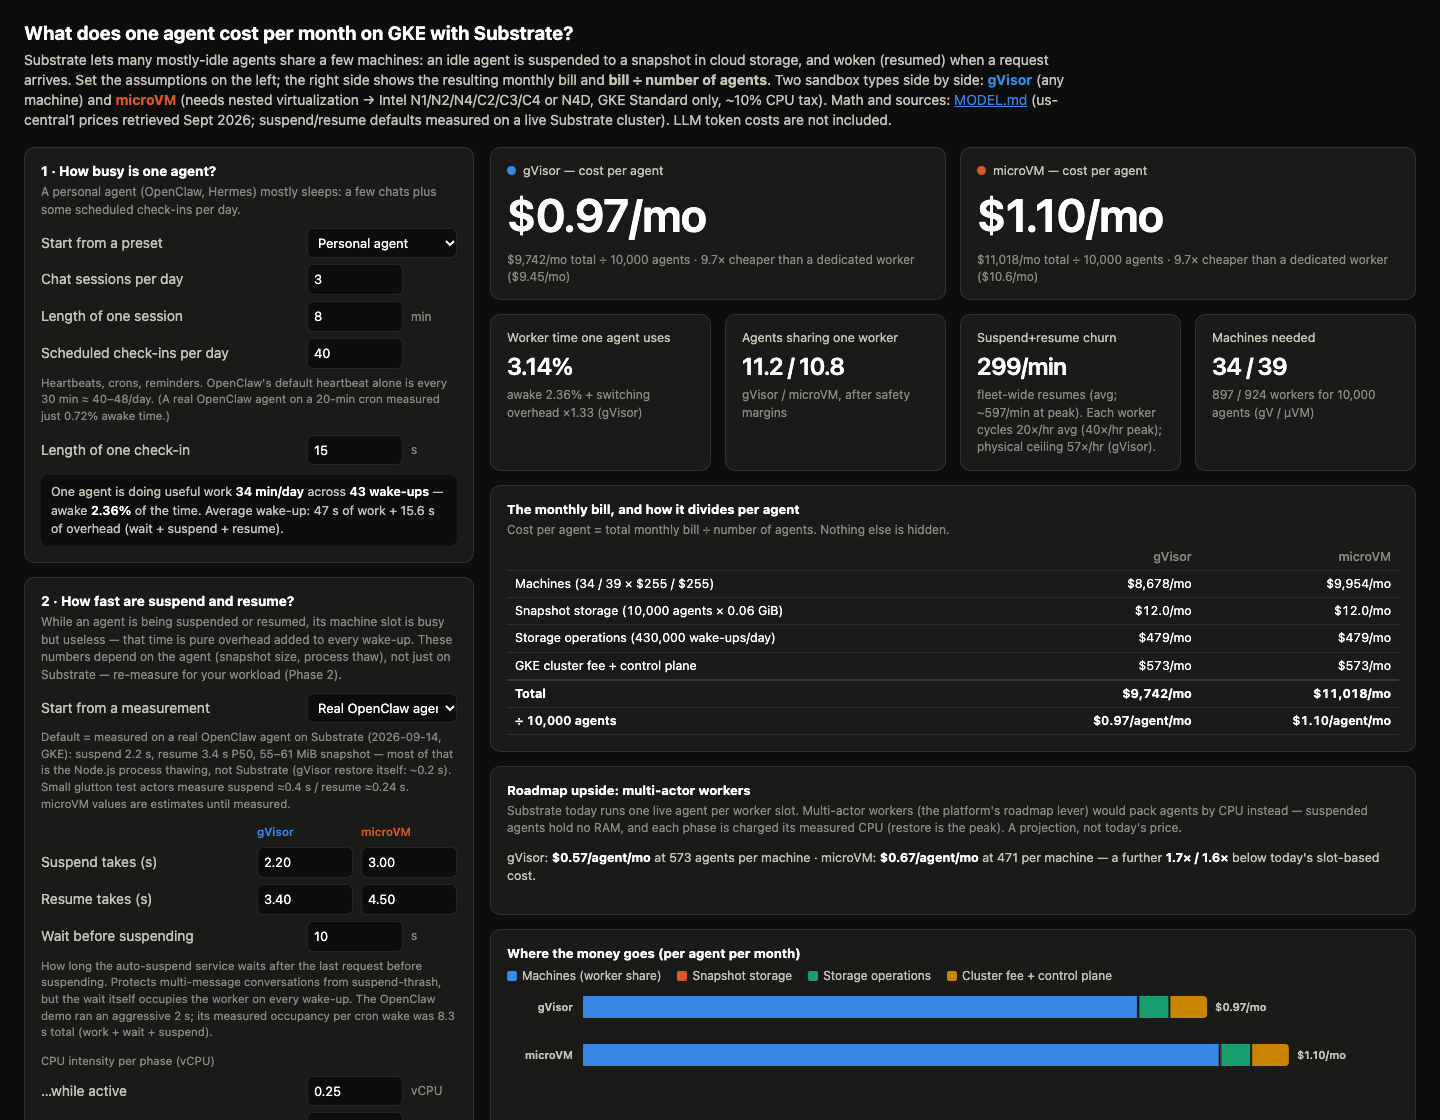
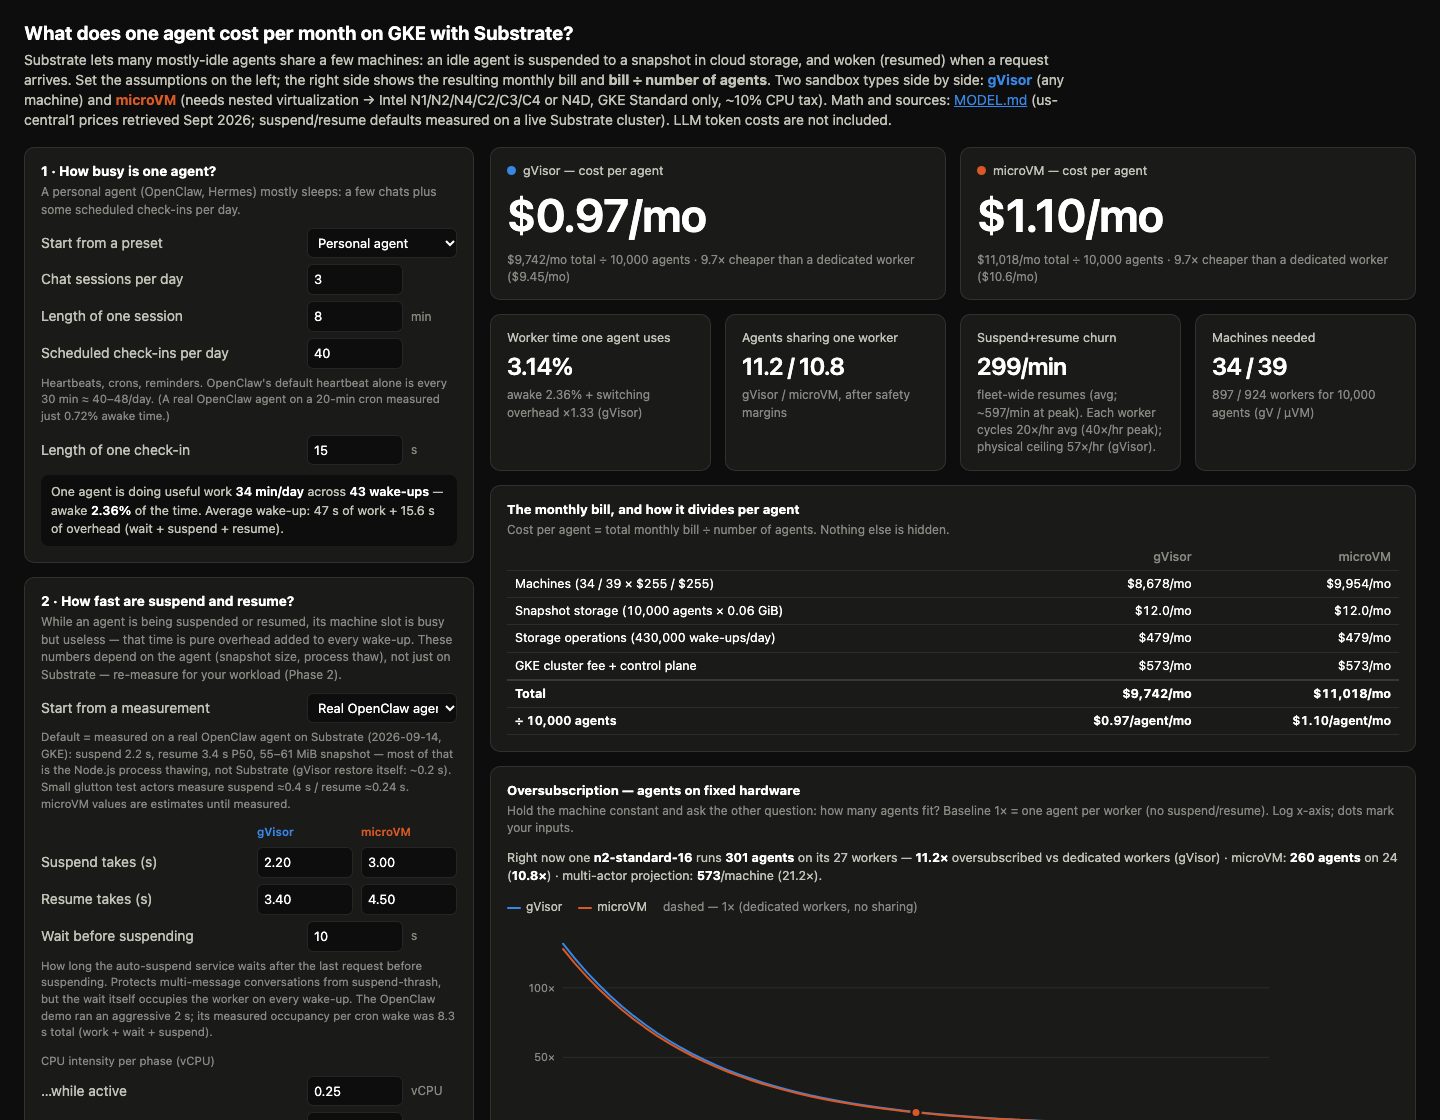
Oversubscription view: fixed hardware, how many agents fit
New calculator card: headline (agents on one machine, ratio vs dedicated
workers, multi-actor projection ratio), an oversubscription-ratio vs
duty-cycle chart (log x, 1x dedicated reference, end labels suppressed
where the curves converge — legend + crosshair carry identity), and a
levers chart that re-runs the model with one knob at a time moved to its
friendlier setting on the same machine: cut idle wait (+15%), small-actor
switch times (+9%), autoscale the pool (+100%), hotter utilization (+21%),
multi-actor workers (+90%, dashed projection). lineChart gains yFmt/
labelSuffix/endLabels options; detail table gains agents-per-machine;
README bullet + calculator screenshot refreshed.

Changed region(s): [[0.3438, 0.8438, 0.9375, 1.0], [0.3438, 0.6875, 0.9688, 0.8125]]

diff --git a/calculator.html b/calculator.html
@@ -246,6 +246,17 @@
     <div style="overflow-x:auto"><table class="detail" id="billTable"></table></div>
   </div>
 
+  <div class="card chart-card">
+    <h3>Oversubscription — agents on fixed hardware</h3>
+    <p class="sub">Hold the machine constant and ask the other question: how many agents fit? Baseline 1× = one agent per worker (no suspend/resume). Log x-axis; dots mark your inputs.</p>
+    <p class="anchors" id="osLine"></p>
+    <div class="legend"><span><span class="key" style="border-color:var(--s1)"></span>gVisor</span><span><span class="key" style="border-color:var(--s2)"></span>microVM</span><span style="color:var(--muted)">dashed — 1× (dedicated workers, no sharing)</span></div>
+    <svg id="os_chart" width="100%" height="240" role="img" aria-label="Oversubscription ratio versus duty cycle"></svg>
+    <h3 style="margin-top:14px">Which knobs buy more agents (same machine)</h3>
+    <p class="sub">Each bar re-runs the model with one knob moved to its friendlier setting, everything else as configured. gVisor scenario, agents per <span id="osMachine"></span>.</p>
+    <svg id="lever_chart" width="100%" height="200" role="img" aria-label="Agents per machine by lever"></svg>
+  </div>
+
   <div class="card">
     <h3 style="font-size:13px;margin:0 0 2px">Roadmap upside: multi-actor workers</h3>
     <p class="subtitle">Substrate today runs one live agent per worker slot. Multi-actor workers (the platform's roadmap lever) would pack agents by CPU instead — suspended agents hold no RAM, and each phase is charged its measured CPU (restore is the peak). A projection, not today's price.</p>
@@ -514,6 +525,8 @@ function niceTicks(max, n=5) {
 
 /* ---------- line chart ---------- */
 function lineChart(svg, opts) {
+  const yFmt = opts.yFmt || fmt$;
+  const suffix = opts.labelSuffix !== undefined ? opts.labelSuffix : "/mo";
   svg.innerHTML = "";
   const W = svg.clientWidth || 900, H = +svg.getAttribute("height");
   svg.setAttribute("viewBox", `0 0 ${W} ${H}`);
@@ -530,7 +543,7 @@ function lineChart(svg, opts) {
   for (const tval of niceTicks(ymax)) {
     el("line", {x1:m.l, x2:W-m.r, y1:Y(tval), y2:Y(tval), stroke:css("--grid"), "stroke-width":1}, svg);
     const t = el("text", {x:m.l-8, y:Y(tval)+4, "text-anchor":"end"}, svg);
-    t.textContent = fmt$(tval);
+    t.textContent = yFmt(tval);
   }
   const xticks = opts.xLog ? opts.xTicks : niceTicks(xmax);
   for (const tv of xticks) {
@@ -548,9 +561,11 @@ function lineChart(svg, opts) {
     const pts = opts.xs.map((x,i)=>[X(x), Y(s.ys[i])]);
     el("path", {d:"M"+pts.map(p=>p.map(v=>v.toFixed(1)).join(",")).join("L"),
       fill:"none", stroke:s.color, "stroke-width":2, "stroke-linejoin":"round", "stroke-linecap":"round"}, svg);
-    const last = pts[pts.length-1];
-    const t = el("text", {x:last[0]+8, y:last[1]+4, class:"dlabel"}, svg);
-    t.textContent = s.name + " " + fmt$(s.ys[s.ys.length-1]) + "/mo";
+    if (opts.endLabels !== false) {
+      const last = pts[pts.length-1];
+      const t = el("text", {x:last[0]+8, y:last[1]+4, class:"dlabel"}, svg);
+      t.textContent = s.name + " " + yFmt(s.ys[s.ys.length-1]) + suffix;
+    }
   });
   if (opts.curX != null) {
     opts.series.forEach(s => {
@@ -571,7 +586,7 @@ function lineChart(svg, opts) {
     cross.setAttribute("x1", X(opts.xs[i])); cross.setAttribute("x2", X(opts.xs[i]));
     cross.setAttribute("opacity", 1);
     showTT(ttBox(opts.xFmt(opts.xs[i]) + opts.ttSuffix,
-      opts.series.map(s=>({color:s.color, name:s.name, val:fmt$(s.ys[i])+"/mo"}))),
+      opts.series.map(s=>({color:s.color, name:s.name, val:yFmt(s.ys[i])+suffix}))),
       ev.clientX, ev.clientY);
   });
   hit.addEventListener("pointerleave", () => { cross.setAttribute("opacity",0); hideTT(); });
@@ -641,15 +656,17 @@ function breakdownChart(svg, rows) {
 function sweepDuty(pG, pM) {
   const w0 = workload();
   const xs = [], g = [], mv = [];
+  const gN = [], mN = [];
   for (let e = Math.log10(0.002); e <= Math.log10(0.30)+1e-9; e += (Math.log10(0.30)-Math.log10(0.002))/60) {
     const target = Math.pow(10, e);
     const k = target/w0.duty;
     const w = {liveSec:w0.liveSec*k, acts:w0.acts*k, duty:target};
     xs.push(target*100);
-    g.push(scenario(pG, w).perAgent);
-    mv.push(scenario(pM, w).perAgent);
+    const sg = scenario(pG, w), sm = scenario(pM, w);
+    g.push(sg.perAgent); mv.push(sm.perAgent);
+    gN.push(sg.N);       mN.push(sm.N);
   }
-  return {xs, g, m:mv, cur:w0.duty*100};
+  return {xs, g, m:mv, gN, mN, cur:w0.duty*100};
 }
 function sweepSR(pG, pM) {
   const w = workload();
@@ -661,6 +678,68 @@ function sweepSR(pG, pM) {
     mv.push(scenario({...pM, ts:t*ratio(pM), tr:t*(1-ratio(pM))}, w).perAgent);
   }
   return {xs, g, m:mv};
+}
+
+/* ---------- levers: same machine, one knob improved ---------- */
+
+// withInputs temporarily sets input values, runs fn, restores. Lets the
+// lever bars reuse scenario() (which reads the DOM) without refactoring.
+function withInputs(changes, fn) {
+  const saved = {};
+  for (const id in changes) { saved[id] = $(id).value; $(id).value = changes[id]; }
+  try { return fn(); } finally {
+    for (const id in saved) $(id).value = saved[id];
+  }
+}
+
+// leverRows computes agents-per-machine for today's settings and for each
+// single-knob improvement (gVisor scenario).
+function leverRows(pG, w, G) {
+  const perMachine = s => s.N * s.wpn;
+  const rows = [{label: "Today, as configured", val: perMachine(G), proj: false}];
+  const add = (label, changes) => {
+    const v = withInputs(changes, () => perMachine(scenario(params("g"), w)));
+    if (Math.abs(v - rows[0].val) > 0.5) rows.push({label, val: v, proj: false});
+  };
+  if (num("tidle") > 2) add("Cut idle wait to 2s", {tidle: 2});
+  if (num("g_ts") > 0.5) add("Small-actor switch times (0.4s/0.25s)", {g_ts: 0.4, g_tr: 0.25});
+  if ($("peakModel").value === "mult" && num("peak") > 1) {
+    add("Autoscale the pool with the day (peak ×1)", {peak: 1});
+  } else if ($("peakModel").value === "herd" && num("herd") > 5) {
+    add("De-align the crons (herd 25% → 5%)", {herd: 5});
+  }
+  if (num("util") < 0.85) add("Run workers hotter (utilization 0.85)", {util: 0.85});
+  rows.push({label: "Multi-actor workers (roadmap projection)", val: G.maPerNode, proj: true});
+  return rows;
+}
+
+function leverChart(svg, rows) {
+  svg.innerHTML = "";
+  const W = svg.clientWidth || 900;
+  const barH = 18, gap = 10, mL = 320, mR = 150;
+  const H = rows.length * (barH + gap) + 8;
+  svg.setAttribute("height", H);
+  svg.setAttribute("viewBox", `0 0 ${W} ${H}`);
+  const maxV = Math.max(...rows.map(r => r.val)) * 1.02;
+  const iw = W - mL - mR;
+  rows.forEach((r, i) => {
+    const y = 4 + i * (barH + gap);
+    const lab = el("text", {x: mL - 10, y: y + barH/2 + 4, "text-anchor": "end",
+      class: i === 0 ? "dlabel" : ""}, svg);
+    lab.textContent = r.label;
+    const wpx = Math.max(2, r.val / maxV * iw);
+    const rr = Math.min(4, wpx);
+    const bar = el("path", {d: `M${mL},${y} h${wpx - rr} a${rr},${rr} 0 0 1 ${rr},${rr} v${barH - 2*rr} a${rr},${rr} 0 0 1 ${-rr},${rr} h${-(wpx - rr)} z`,
+      fill: css("--s1"), opacity: r.proj ? 0.45 : (i === 0 ? 1 : 0.8)}, svg);
+    if (r.proj) bar.setAttribute("stroke-dasharray", "4 3");
+    const v = el("text", {x: mL + wpx + 8, y: y + barH/2 + 4, class: "dlabel"}, svg);
+    v.textContent = fmt(r.val, 0) + " agents" +
+      (i > 0 ? sPlus(r.val, rows[0].val) : "");
+  });
+}
+function sPlus(v, base) {
+  const d = v / Math.max(base, 1e-9);
+  return d >= 1 ? `  (+${fmt((d-1)*100,0)}%)` : `  (${fmt((d-1)*100,0)}%)`;
 }
 
 /* ---------- tables ---------- */
@@ -773,6 +852,24 @@ function recompute() {
   ]);
 
   const sd = sweepDuty(pG, pM);
+
+  // Oversubscription view: fixed hardware, how many agents fit.
+  $("osMachine").textContent = $("g_shape").value.split(" ")[0];
+  $("osLine").innerHTML =
+    `Right now one <b>${pG.shape}</b> runs <b>${fmt(G.N*G.wpn,0)} agents</b> on its ${G.wpn} workers —
+     <b>${fmt(G.N,1)}×</b> oversubscribed vs dedicated workers (gVisor) ·
+     microVM: <b>${fmt(M.N*M.wpn,0)} agents</b> on ${M.wpn} (<b>${fmt(M.N,1)}×</b>) ·
+     multi-actor projection: <b>${fmt(G.maPerNode,0)}</b>/machine (${fmt(G.maPerNode/Math.max(G.wpn,1),1)}×).`;
+  lineChart($("os_chart"), {
+    xs:sd.xs, xLog:true, xTicks:[0.3,1,3,10,30], curX:sd.cur,
+    xFmt:v=>fmt(v,1)+"%", ttSuffix:" of the day awake",
+    yFmt:v=>fmt(v,0)+"×", labelSuffix:"", endLabels:false,
+    series:[{name:"gVisor", color:css("--s1"), ys:sd.gN},
+            {name:"microVM", color:css("--s2"), ys:sd.mN}],
+    dashedY:[{y:1, color:css("--baseline"), label:"1× dedicated"}],
+  });
+  leverChart($("lever_chart"), leverRows(pG, w, G));
+
   lineChart($("duty_chart"), {
     xs:sd.xs, xLog:true, xTicks:[0.3,1,3,10,30], curX:sd.cur,
     xFmt:v=>fmt(v,1)+"%", ttSuffix:" of the day awake",
@@ -806,6 +903,7 @@ function recompute() {
     {cells:["Agents per worker — time-sharing limit", fmt(G.nTime,2), fmt(M.nTime,2)]},
     {cells:["Agents per worker — churn-cap limit", Number.isFinite(G.nChurn)?fmt(G.nChurn,2):"no cap", Number.isFinite(M.nChurn)?fmt(M.nChurn,2):"no cap"]},
     {cls: (G.capBinds||M.capBinds)?"em":"", cells:["Agents per worker (min of the two)", fmt(G.N,2), fmt(M.N,2)]},
+    {cells:["Agents per machine (slot-based)", fmt(G.N*G.wpn,0), fmt(M.N*M.wpn,0)]},
     {cells:["Workers needed", fmt(G.workers,0), fmt(M.workers,0)]},
     {cells:["Machines needed", fmt(G.nodes,0), fmt(M.nodes,0)]},
     {cells:["Multi-actor agents/machine (projection)", fmt(G.maPerNode,0)+(G.maMemBound?" (mem-bound)":""), fmt(M.maPerNode,0)+(M.maMemBound?" (mem-bound)":"")]},

diff --git a/README.md b/README.md
@@ -36,6 +36,10 @@ What the calculator shows:
   (machines + snapshots + storage ops + cluster fee), and cost per agent =
   bill ÷ agents. Suspend/resume churn rates against each worker's physical
   ceiling, with an optional churn cap.
+- **An oversubscription view**: hold the machine constant and see how many
+  agents fit — the ratio vs duty cycle, plus a levers chart showing how many
+  MORE agents each knob buys (shorter idle wait, faster switches,
+  autoscaling the pool, hotter utilization, multi-actor workers).
 - **Two peak lenses** (pick one): busiest-hour multiplier for
   timezone-driven fleets, or a **herd %** for cron-aligned fleets — the herd
   is charged full occupancy during its burst.
